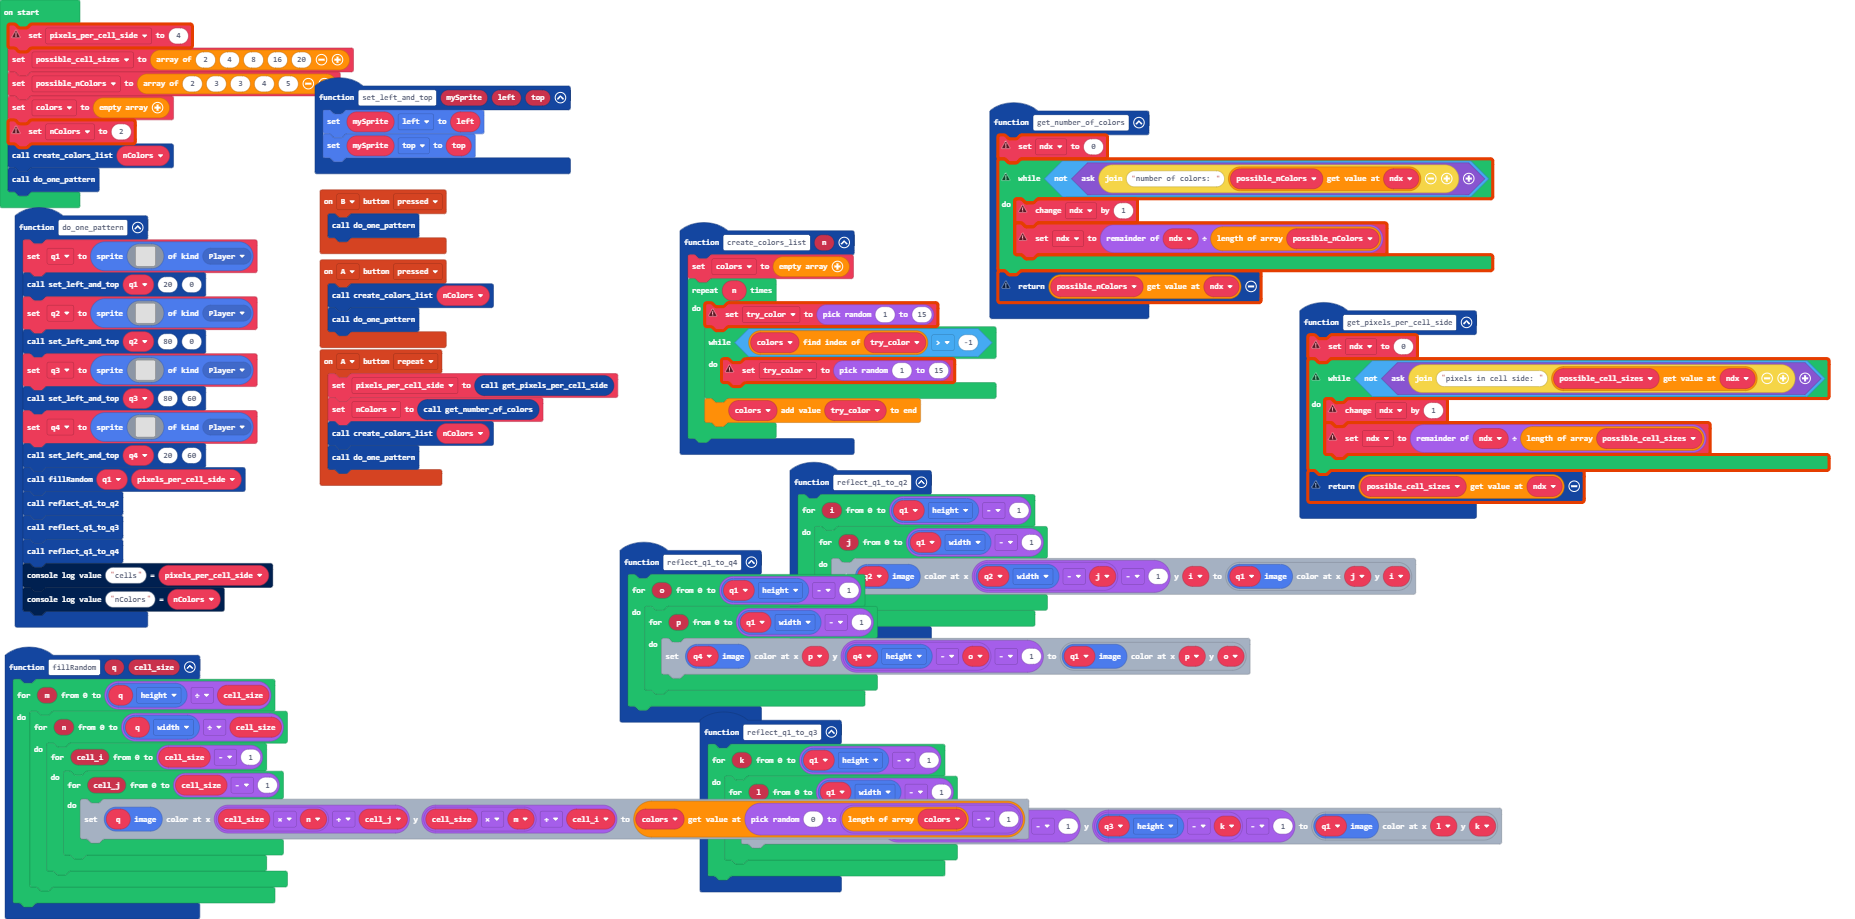
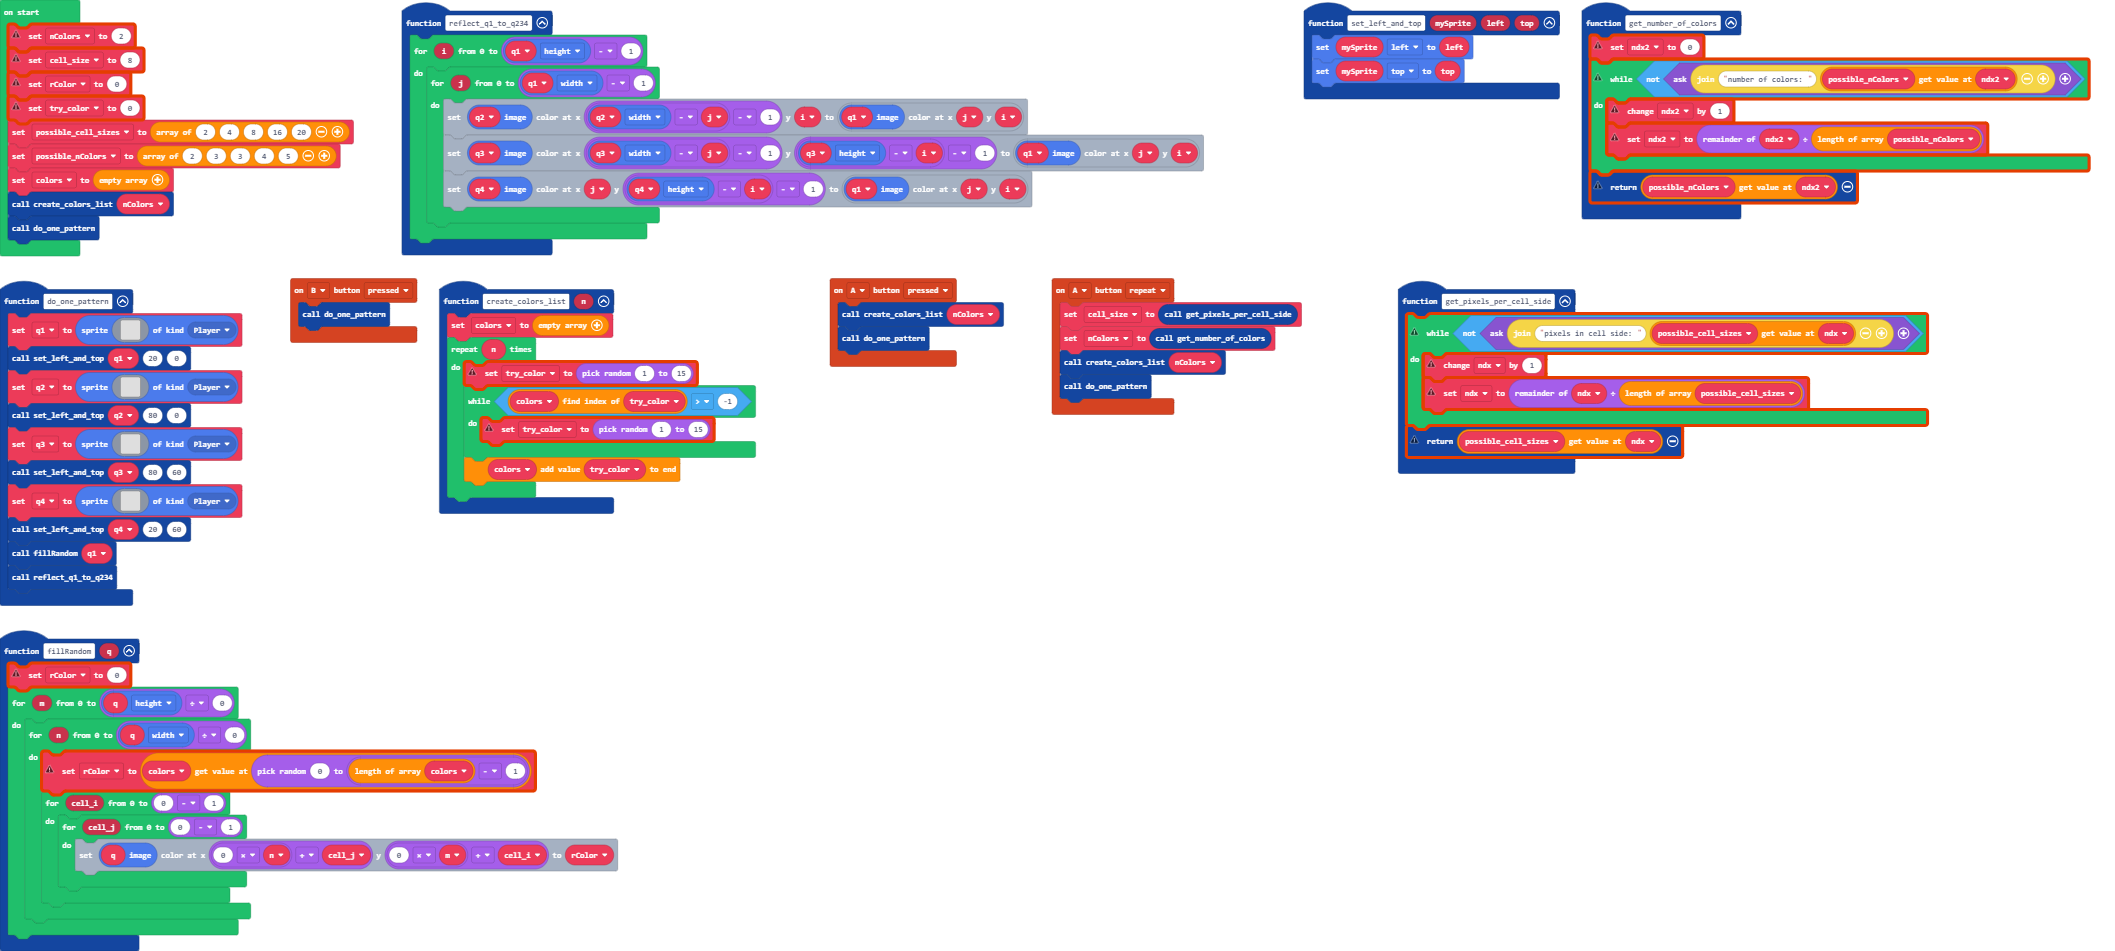
Update pxt.json, main.blocks, main.ts

diff --git a/main.ts b/main.ts
@@ -1,5 +1,6 @@
-
-
+controller.B.onEvent(ControllerButtonEvent.Pressed, function () {
+    do_one_pattern()
+})
 function do_one_pattern () {
     q1 = sprites.create(img`
         ............................................................
@@ -253,19 +254,45 @@ function do_one_pattern () {
         ............................................................
         `, SpriteKind.Player)
     set_left_and_top(q4, 20, 60)
-    fillRandom(q1, pixels_per_cell_side) 
+    fillQ1randomly()
     reflect_q1_to_q234()
 }
-function fillRandom (q: Sprite, cell_size: number) {
-    for (let m = 0; m <= q.height / cell_size; m++) {
-        for (let n = 0; n <= q.width / cell_size; n++) {
-            let rColor = colors[randint(0, colors.length - 1)]
+controller.A.onEvent(ControllerButtonEvent.Pressed, function () {
+    create_colors_list(nColors)
+    do_one_pattern()
+})
+function  fillQ1randomly () {
+    for (let m = 0; m <= q1.height / cell_size; m++) {
+        for (let n = 0; n <= q1.width / cell_size; n++) {
+            rColor = colors[randint(0, colors.length - 1)]
             for (let cell_i = 0; cell_i < cell_size; cell_i++) {
-                for (let cell_j = 0; cell_j < cell_size ; cell_j++) {
-                    q.image.setPixel(cell_size * n + cell_j, cell_size * m + cell_i, rColor)
+                for (let cell_j = 0; cell_j < cell_size; cell_j++) {
+                    q1.image.setPixel(cell_size* n + cell_j, cell_size * m + cell_i, rColor)
                 }
             }
         }
+    }
+}
+function set_left_and_top (mySprite: Sprite, left: number, top: number) {
+    mySprite.left = left
+    mySprite.top = top
+}
+function get_number_of_colors () {
+    ndx = 0
+    while (!(game.ask("number of colors: " + possible_nColors[ndx]))) {
+        ndx += 1
+        ndx= ndx % possible_nColors.length
+    }
+    return possible_nColors[ndx]
+}
+function create_colors_list (n: number) {
+    colors = []
+    for (let index = 0; index < n; index++) {
+        try_color = randint(1, 15)
+        while (colors.indexOf(try_color) > -1) {
+            try_color = randint(1, 15)
+        }
+        colors.push(try_color)
     }
 }
 function reflect_q1_to_q234 () {
@@ -277,42 +304,12 @@ function reflect_q1_to_q234 () {
         }
     }
 }
-function set_left_and_top (mySprite: Sprite, left: number, top: number) {
-    mySprite.left = left
-    mySprite.top = top
-}
-function create_colors_list (n: number) {
-    colors = []
-    let try_color = 0
-    for (let index = 0; index < n; index++) {
-        try_color = randint(1, 15)
-        while (colors.indexOf(try_color) > -1) {
-            try_color = randint(1, 15)
-        }
-        colors.push(try_color)
-    }
-}
 controller.A.onEvent(ControllerButtonEvent.Repeated, function () {
-    pixels_per_cell_side = get_pixels_per_cell_side()
+    cell_size = get_pixels_per_cell_side()
     nColors = get_number_of_colors()
     create_colors_list(nColors)
     do_one_pattern()
 })
-controller.A.onEvent(ControllerButtonEvent.Pressed, function () {
-    create_colors_list(nColors)
-    do_one_pattern()
-})
-controller.B.onEvent(ControllerButtonEvent.Pressed, function () {
-    do_one_pattern()
-})
-function get_number_of_colors () {
-    ndx = 0
-    while (!(game.ask("number of colors: " + possible_nColors[ndx]))) {
-        ndx += 1
-        ndx = ndx % possible_nColors.length
-    }
-    return possible_nColors[ndx]
-}
 function get_pixels_per_cell_side () {
     let ndx = 0
     while (!(game.ask("pixels in cell side: " + possible_cell_sizes[ndx]))) {
@@ -321,8 +318,7 @@ function get_pixels_per_cell_side () {
     }
     return possible_cell_sizes[ndx]
 }
-let try_color: number=0
-let ndx: number = 0
+
 let q4: Sprite = null
 let q3: Sprite = null
 let q2: Sprite = null
@@ -330,9 +326,15 @@ let q1: Sprite = null
 let colors: number[] = []
 let possible_nColors: number[] = []
 let possible_cell_sizes: number[] = []
-let pixels_per_cell_side: number = 8
-let nColors: number = 2
-let rColor :number = 0
+let try_color: number = 0
+let rColor: number = 0
+let cell_size: number = 0
+let nColors: number = 0
+let ndx:  number = 0
+nColors = 2
+cell_size = 8
+rColor = 0
+try_color = 0
 possible_cell_sizes = [2, 4, 8, 16, 20]
 possible_nColors = [2, 3, 3, 4, 5]
 colors = []
